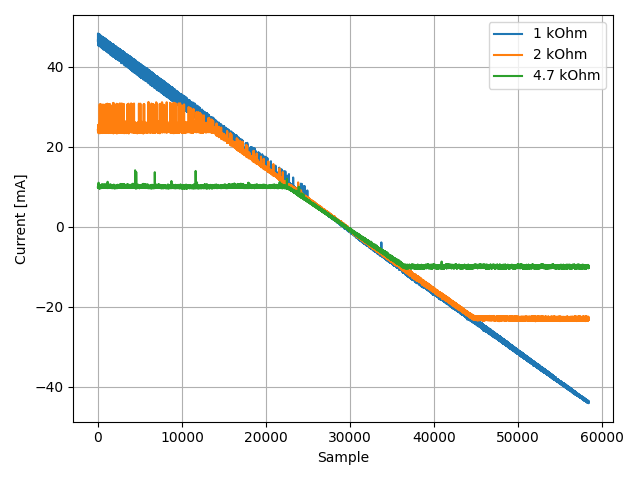
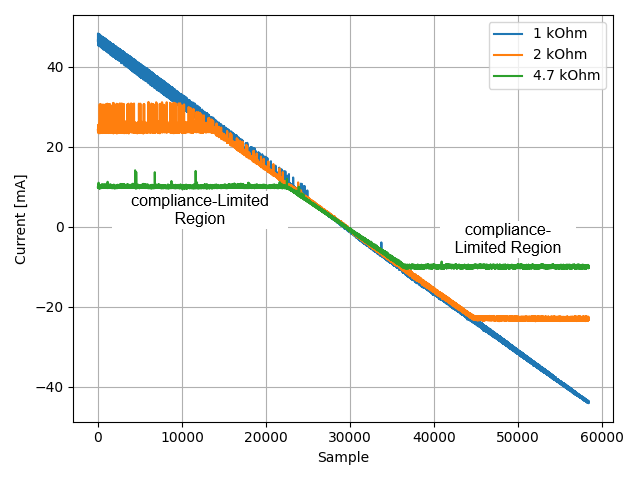
WIP

Changed region(s): [[0.6875, 0.4688, 0.875, 0.5312], [0.1875, 0.4062, 0.4375, 0.4688]]

diff --git a/MSc/PEL309/Paper/pel309.tex b/MSc/PEL309/Paper/pel309.tex
@@ -32,8 +32,9 @@ [email redacted]}
 \maketitle
 
 \begin{abstract}
-Functional Electrical Stimulation (FES) systems require predictable current control to ensure repeatable clinical outcomes and stable embedded control. This paper characterizes the relationship between digital-to-analog converter (DAC) control voltage and output current in a Howland Current Source output stage based on the STIMGRASP FES architecture. As this architecture lacks real-time current feedback, the output stage operates in an open-loop configuration, requiring external current measurement through a shunt resistor. For experimental characterization, a dedicated firmware was developed to generate DAC ramps under multiple resistive load conditions. After excluding compliance-limited samples, linearity and regression analyses were performed. Results show that Pearson and Spearman correlation coefficients were $<-0.999$ for all loads, confirming highly linear and monotonic behavior in the selected operating region. A single global linear model was identified for use as an embedded DAC estimation model. Finally, this work quantifies how load-dependent compliance limits may compromise predictability in the absence of feedback, providing a characterization that complements the original STIMGRASP investigation.
+Functional Electrical Stimulation (FES) systems require predictable current control to ensure repeatable clinical outcomes and stable embedded control. This paper characterizes the relationship between digital-to-analog converter (DAC) control voltage and output current in a Howland Current Source output stage based on the STIMGRASP FES architecture. As this architecture lacks real-time current feedback, the output stage operates in an open-loop configuration. Therefore, for experimental characterization only, stimulation current was measured externally using a shunt resistor. A dedicated firmware was developed to generate DAC ramps under multiple resistive load conditions. After excluding compliance-limited samples, linearity and regression analyses were performed. Results show that Pearson and Spearman correlation coefficients were $<-0.999$ for all loads, confirming highly linear and monotonic behavior in the selected operating region. A single global linear model was identified for use as an embedded DAC estimation model. Finally, this work quantifies how load-dependent compliance limits may compromise predictability in the absence of feedback, providing a characterization that complements the original STIMGRASP investigation.
 \end{abstract}
+
 
 \begin{IEEEkeywords}
 Functional Electrical Stimulation, Howland current source, linearity analysis, open-loop control.
@@ -213,9 +214,11 @@ After removing samples outside this common compliance interval, Fig.~\ref{fig:fu
 
 \subsection{Statistical Analysis and Model Identification}
 
-Pearson and Spearman correlations were computed for the selected linear operating region \cite{TODO_PEARSON}, \cite{TODO_SPEARMAN}. Pearson correlation was used to quantify linear association, while Spearman correlation was used to evaluate monotonic association. Compliance-limited samples were excluded before statistical analysis, so the reported linearity metrics refer only to the hardware-supported operating region used for model identification.
+Figure~\ref{fig:global_model} illustrates the selected experimental curves together with the dashed global model used for model identification. The close overlap indicates that the DAC estimation model for open-loop operation can represent the evaluated output stage across the tested loads, provided that the load voltage remains inside the compliance interval.
 
-Linear regression was then performed independently for each load and globally using all three loads within the common valid linear region \cite{TODO_LINEAR_REGRESSION}. The objective of the global fit was to identify a single embedded DAC estimation model valid across the evaluated loads inside the hardware-supported compliance interval. Residuals were analyzed to assess systematic deviations from the global model, and current spread between loads was computed to evaluate load consistency. Cross-validation was also performed to estimate model robustness \cite{TODO_CROSS_VALIDATION}.
+Pearson and Spearman correlations were computed for the selected linear operating region. Pearson correlation was used to quantify linear association, while Spearman correlation was used to evaluate monotonic association \cite{TODO_PEARSON}, \cite{TODO_SPEARMAN}. Compliance-limited samples were excluded before statistical analysis, so the reported linearity metrics refer only to the hardware-supported operating region used for model identification.
+
+Linear regression was then performed independently for each load and globally using all three loads within the common valid linear region. The objective of the global fit was to identify a single embedded DAC estimation model valid across the evaluated loads inside the hardware-supported compliance interval. Residuals were analyzed to assess systematic deviations from the global model, and current spread between loads was computed to evaluate load consistency. Cross-validation was also performed to estimate model robustness.
 
 \section{Results}
 
@@ -283,8 +286,6 @@ Linear regression in the selected operating region showed high linearity for all
 \end{table}
 
 The preferred embedded model is a single global linear model identified using all three loads within the valid linear region. First, the three independent experimental current measurements, corresponding to the 1 k$\Omega$, 2 k$\Omega$, and 4.7 k$\Omega$ loads, were restricted to the linear operating region. The resulting samples were then reorganized into a single dataset in which each point was represented by a pair $(V_{\mathrm{DAC}}, I_{\mathrm{out}})$, with the load label retained only as auxiliary information. All points from the three loads were then combined and used simultaneously in a single ordinary least-squares linear regression. Thus, instead of fitting three independent models, one for each load, a single global DAC-to-current relationship was estimated to represent the average circuit behavior in the supported linear region across all evaluated loads.
-
-Figure~\ref{fig:global_model} illustrates the selected experimental curves together with the dashed global model. The close overlap indicates that the DAC estimation model for open-loop operation can represent the evaluated output stage across the tested loads, provided that the load voltage remains inside the compliance interval.
 
 \begin{figure}[htbp]
 \centerline{\placeholderfigure{images/fig_global_linear_model.png}}